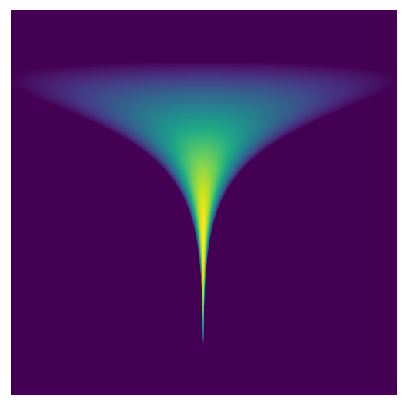
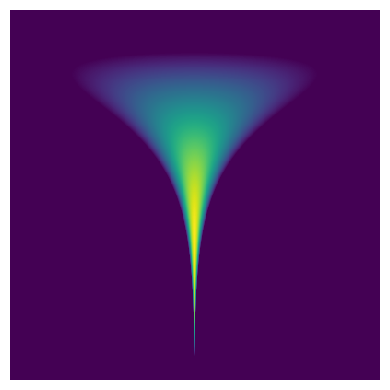
update the post

diff --git a/_posts/2023-07-04-jupyter-notebook.md b/_posts/2023-07-04-jupyter-notebook.md
@@ -14,40 +14,65 @@ toc:
 ## 1. Introduction
 This post provides a simple numerical approach using [PyTorch](https://pytorch.org/) to simulate the probability flow ordinary differential equation (ODE) of Langevin dynamics. The implementation is super simple, one just needs to slightly modify a code of Generative Adversarial Nets. Such implementation can be understood as ''non-parametric GANs'', which is an alternative view on GAN via the probability flow ODE, more details can be found in my paper ''[MonoFlow: Rethinking Divergence GANs via the Perspective of Wasserstein Gradient Flows](https://arxiv.org/abs/2302.01075)'' , or another excellant paper ''[Unifying GANs and Score-Based Diffusion as Generative Particle Models](https://arxiv.org/abs/2305.16150)'' by [Jean-Yves Franceschi](https://jyfranceschi.fr/). Briefly speaking, GANs can work without generators as a direct particle flow method similar to diffusion models.
 
-<figure style="text-align:center;">
-  <img src="{{ site.baseurl }}/assets/img/blog_pic/particles.gif" alt="Prob flow ODE" class="img-fluid rounded z-depth-1" style="width: 40%; height: auto; margin-left: auto; margin-right: auto;">
-  <figcaption>Figure 1. Transporting particles via the probability flow ODE.</figcaption>
-</figure>
+
+<div class="row mt-3">
+    <div class="col-sm mt-3 mt-md-0">
+        <img src="{{ site.baseurl }}/assets/img/blog_pic/funnel_true.png" class="img-fluid rounded z-depth-1" style="width: 110%; height: auto;">
+        <figcaption style="text-align: center; margin-top: 10px;"> Log denisty plot of <a href="https://mc-stan.org/docs/2_18/stan-users-guide/reparameterization-section.html"> Neal's funnel
+    </a>distribution.</figcaption>
+    </div>
+    <div class="col-sm mt-3 mt-md-0">
+        <img src="{{ site.baseurl }}/assets/img/blog_pic/funnel_langevin.gif" class="img-fluid rounded z-depth-1" style="width: 110%; height: auto;">
+        <figcaption style="text-align: center; margin-top: 10px;"> Langevin dynamics. 
+        <a target="_blank" href="https://colab.research.google.com/github/mingxuan-yi/prob_flow_ode/blob/main/funnel_langevin.ipynb">
+         <img src="https://colab.research.google.com/assets/colab-badge.svg" alt="Open In Colab"/>
+        </a>
+        </figcaption>
+    </div>
+    <div class="col-sm mt-3 mt-md-0">
+        <img src="{{ site.baseurl }}/assets/img/blog_pic/funnel_ode.gif" class="img-fluid rounded z-depth-1" style="width: 110%; height: auto;">
+        <figcaption style="text-align: center; margin-top: 10px;"> Probability flow ODE. 
+        <a target="_blank" href="https://colab.research.google.com/github/mingxuan-yi/prob_flow_ode/blob/main/funnel_prob_ode.ipynb">
+        <img src="https://colab.research.google.com/assets/colab-badge.svg" alt="Open In Colab"/>
+        </a>
+        </figcaption>
+    </div>
+</div>
+View the notebooks on 
+<a href="https://colab.research.google.com/github/GoogleCloudPlatform/vertex-ai-samples/blob/main/notebooks/official/model_monitoring/model_monitoring.ipynb">
+        <img src="https://cloud.google.com/ml-engine/images/github-logo-32px.png" alt="GitHub logo"  style="width: 5%; height: auto;">
+</a>
+
 
 ## 2. Langevin dynamics and its probability flow ODE
 Langevin dynamics follows a stochastic differential equation (SDE) to describe the motion of a particle $$\mathbf{x}_t \in \mathbb{R}^n$$,
 \begin{aligned}
 \mathrm{d} \mathbf{x}\_t = \nabla\_\mathbf{x} \log p(\mathbf{x}\_t)\mathrm{d}t + \sqrt{2} \mathrm{d}\mathbf{w}\_t,
 \end{aligned}
-where $$\mathbf{w}_t$$ represents the Brownian motion. Using the Itô integration, we can obtain the Fokker-Placnk equation describing the marginal laws of the dynamics,
+where $$\mathbf{w}_t$$ represents the Brownian motion. Using the Itô integration, we can obtain the Fokker-Placnk equation describing the marginal laws of the dynamics over time,
 \begin{aligned}
 \frac{\partial q\_t(\mathbf{x})}{\partial t} = \text{div}\Big[ q\_t\big(\nabla\_\mathbf{x} \log q_t(\mathbf{x}) - \nabla\_\mathbf{x} \log p(\mathbf{x}) \big) \Big],
 \end{aligned}
-where $$\text{div}$$ is the [divergence operator](https://en.wikipedia.org/wiki/Divergence) in vector calculus. Under mild conditions, the Fokker-Planck equation shows that the equilibrium of the dynamics is achieved if and only if $$q_t=p$$ such that the infinitesimal change of the marginal $$\frac{\partial q_t}{\partial t}=0$$. Evolving a particle from the initilization $$\mathbf{x}_0 \sim q_0(\mathbf{x})$$, the marginal $$q_t(\mathbf{x})$$ converges (weakly) to the stationary distribution $$p(\mathbf{x})$$, or to some local modes of $$p(\mathbf{x})$$ within the finite time, which happens in practice. 
+where $$\text{div}$$ is the [divergence operator](https://en.wikipedia.org/wiki/Divergence) in vector calculus. If the target distribution decays at infinity $$\lim_{\mathbf{x} \to \infty} p(\mathbf{x})= 0$$, e.g., the Boltzmann distribution, the equilibrium (steady state) of the dynamics is achieved if and only if $$q_t=p$$ such that the infinitesimal change of the marginal $$\frac{\partial q_t}{\partial t}=0$$. Evolving a particle from the initilization $$\mathbf{x}_0 \sim q_0(\mathbf{x})$$, its marginal $$q_t(\mathbf{x})$$ will eventually converge (weakly) to the stationary distribution $$p(\mathbf{x})$$ as a consequencen of the second law of thermodynamics. However, establishing the finite-time convergence can be challenging; additional conditions for the target distribution must be met to guarantee convergence. For example, if $$p(\mathbf{x})$$ satisfies the [log-Sobolev inequality](https://en.wikipedia.org/wiki/Logarithmic_Sobolev_inequalities), then the maringal $$q_t(\mathbf{x})$$ will converge to $$p(\mathbf{x})$$ exponentially fast in terms of the Kullback-Leibler divergence. Nevertheless, we shall be able to expect that Langevin dynamics can at least find some local modes in practice.
 
-In order to numerically simulate the Langevin dynamics, we can use the [Euler-Maruyama method](https://en.wikipedia.org/wiki/Euler%E2%80%93Maruyama_method) to discretize the SDE, this gives the well-known unadjusted Langevin algorithm (ULA),
+
+
+In order to numerically simulate Langevin dynamics, we can use the Euler-Maruyama method to discretize the SDE, this gives the well-known **unadjusted Langevin algorithm (ULA)**,
 \begin{align}
 \mathbf{x}\_{i+1} \leftarrow \mathbf{x}\_{i} + \epsilon \nabla_{\mathbf{x}} \log p(\mathbf{x}\_i) + \sqrt{2\epsilon} \mathcal{N}(0, I), \quad i=0, 1, 2\cdots
 \end{align}
-ULA has been wide used in Bayesian inference and generative modelings as a sampling method. For example, training Bayesian neural networks, energy-based models, or the earliest version of diffusion models which uses annealing techniques for the Langevin dynamics. Sampling via the ULA relies on the knowledge of the density function of the target distribution, this can be an obstacle especially in which the target distribution can only represented by some data points, e.g., image generation and simulation-based inference. In Figure 1, Langevin dynamics is not available because the target $$p(\mathbf{x})$$ is just a collection of data points. 
+ULA is widely used large scale machine learning. For example, it has been applied in the training of Bayesian neural networks and energy-based models, and it also serves as the sampling scheme for the earliest version of score-based diffusion models. 
 
 
-
-
-In [score-based diffusion models](https://yang-song.net/blog/2021/score/#probability-flow-ode), [Song](https://yang-song.net/) et al. showed that each SDE has an associated probability flow ODE sharing the same marginal $$q_t$$, see Eq. (13) in Song, et. al., 2021. Simply using this result, we can convert the Langevin SDE to the associated ODE,
+In [score-based diffusion models](https://yang-song.net/blog/2021/score/#probability-flow-ode), [Song](https://yang-song.net/) et al. showed that each SDE has an associated probability flow ODE sharing the same marginal $$q_t$$ (also see the Eq. (13) in [Song et. al, 2021](https://arxiv.org/abs/2011.13456)) Simply using this result, we can convert the Langevin SDE to the associated ODE,
 \begin{align}
 \mathrm{d} \mathbf{x}\_t = \Big [\nabla\_\mathbf{x} \log p(\mathbf{x}\_t)- \nabla\_\mathbf{x} \log q_t(\mathbf{x}\_t)\Big]\mathrm{d}t.
 \end{align}
-Similarly, using the Euler method to discretize the ODE gives 
+The marginal laws of the probability flow ODE also follow the same Fokker-Planck equation. The probability flow ODE differs from Langevin dynamics only in the nature of particle evolution: the former is deterministic, while the latter is stochastic. Similarly, using the Euler method to discretize the ODE gives 
 \begin{align}
 \mathbf{x}\_{i+1} \leftarrow \mathbf{x}\_{i} + \epsilon \big[\nabla_{\mathbf{x}} \log {p(\mathbf{x}\_i)}- \nabla_{\mathbf{x}} \log {q_{i}({\mathbf{x}\_i})}\big], \quad i=0, 1, 2\cdots
 \end{align}
-It is worth noting the vector field of the probability flow ODE is the gradient of the logrithm density ratio $$\log \big[p(\mathbf{x}_i) / q_{i}({\mathbf{x}_i})\big]$$. Next, we will discuss a method to obtain the log density ratio which is analogue to training the discriminator in GANs.
+It is worth noting the vector field of the probability flow ODE is the gradient of the log density ratio $$\log \big[p(\mathbf{x}_i) / q_{i}({\mathbf{x}_i})\big]$$. If we can access to the log density ratio, we can use the Euler method to simulate the ODE. Next, we will discuss a method to obtain the log density ratio which is analogue to training the discriminator in GANs.
 
 
 
